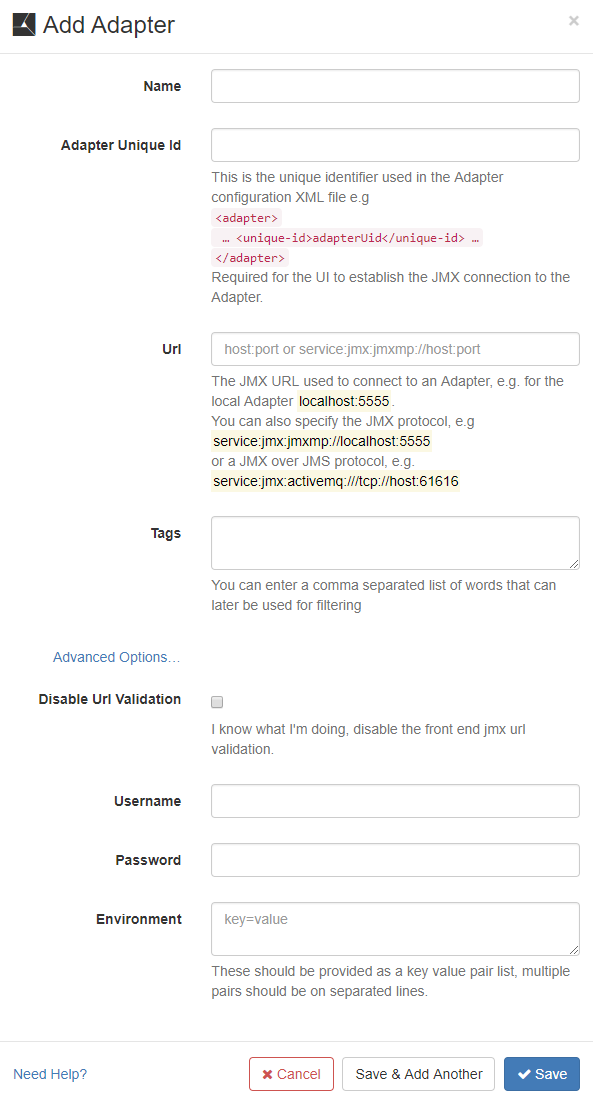
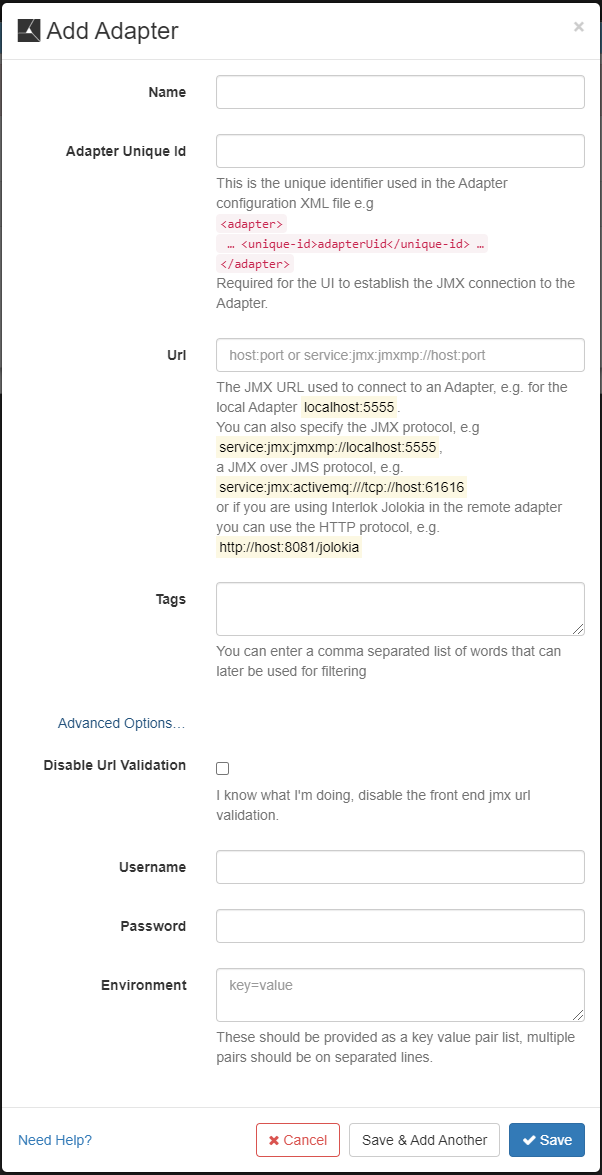
Add some info about using jolokia in the UI

diff --git a/docs/pages/ui/ui-dashboard.md b/docs/pages/ui/ui-dashboard.md
@@ -244,7 +244,7 @@ The Add Adapter form inputs explained:
 
 - **Name:** This property is for display purposes and also an easy way to differentiate Adapters registered within the UI web application.
 - **Adapter Unique Id:** This is the Adapter unique identifier used in the Adapter configuration XML file: `<adapter><unique-id>adapterUid</unique-id</adapter>`. This is required for the UI to establish the JMX connection to the Adapter.
-- **URL:** The JMX URL used to connect to the Adapter, for example: localhost:5555. You can also provide the JMX protocol: service:jmx:jmxmp://localhost:5555
+- **URL:** The JMX URL used to connect to the Adapter, for example: localhost:5555. You can also provide the JMX protocol: service:jmx:jmxmp://localhost:5555. Since 4.1.0 a [Jolokia URL](/pages/advanced/advanced-jolokia) can be used to add and Adapter. By default just use http://host:8081/jolokia instead of the JMX URL. The UI will monitor the adapter using Jolokia instead of JMX.
 - **Tags:** The tags associated to the Adapter to make it easier to filter Adapters. (Since 3.7.3)
 - **Advanced Options** - Clicking the Advanced Options link will unveil three more properties, all of which are optional :
     - **Disable Url Validation:** This options disable the JMX URL front-end validation. It should be use with care and only if you know that the JMX URL you are using is valid but fails validation (Since 3.6.5)

diff --git a/docs/pages/advanced/advanced-jolokia.md b/docs/pages/advanced/advanced-jolokia.md
@@ -117,3 +117,13 @@ Response
 You can read more about jolokia protocol at https://jolokia.org/reference/html/protocol.html#post-request
 
 GET request can also be used for simple queries (https://jolokia.org/reference/html/protocol.html#get-request) but Jolokia recommend to use POST requests.
+
+# UI ##
+
+Since 4.1.0 the UI supports managing Adapters using Jolokia [Add Adapters to The Dashboard](/pages/ui/ui-dashboard#add-adapters-to-the-dashboard).
+
+The main advantage of using Jolokia is that it runs on HTTP so that can help with some firewall restriction on non HTTP ports.
+
+However its usage is for now limited to managing / monitoring tasks only (mainly the Dashboard and Widgets pages) and therefore you cannot use the Config page to modify and apply config to an Adapter added via Jolokia.
+The UI Log Monitor and Log Config page will also not work with an Adapter added via Jolokia.
+
